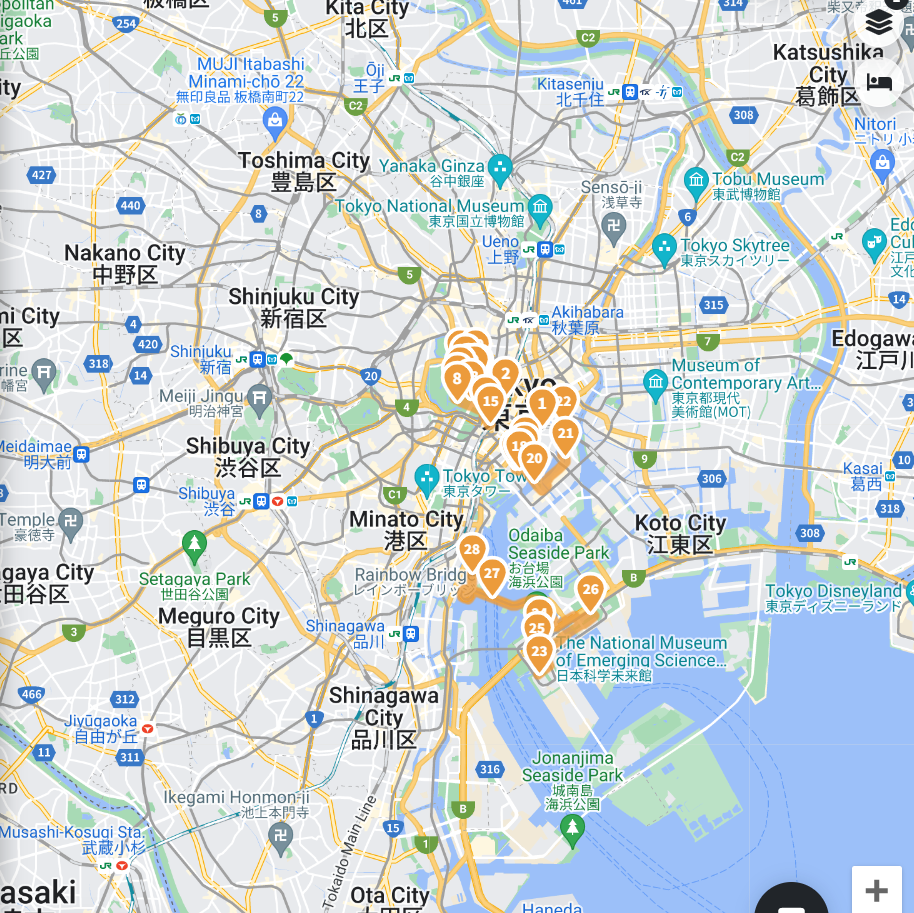
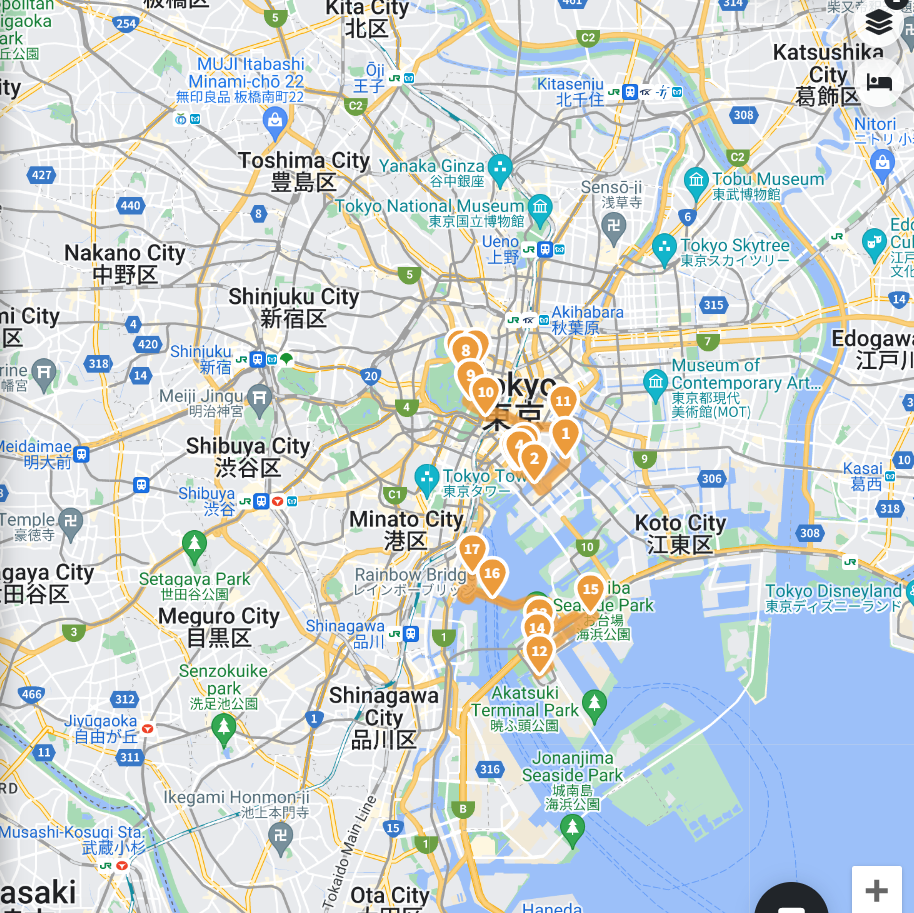
update day3

diff --git a/day03.html b/day03.html
@@ -49,16 +49,16 @@
           <div id="plan">
             <h2 class="content-subhead bg-yellow">What We Had Planned</h2>
             <img class="pure-img-responsive" src=".\images\day03\wanderlog.png" alt="wanderlog itinerary map">
-            <small><em>Note: I had intended to sign us up for a guided tour of the Imperial Palace grounds, but mistook the month that booking opened (1st April not 1st May!), and slots were all gone when I realised a couple of days later. We could arrive early and try to get walk-in tickets, but instead we'll have a leisurely breakfast.</em></small>
+            <small><em>Note: I had intended to sign us up for a guided tour of the Imperial Palace grounds, but mistook the month that booking opened (1st April not 1st May!), and slots were all gone when I realised a couple of days later. We could arrive early and try to get walk-in tickets, but instead we'll have a leisurely breakfast and visit the market.</em></small>
             <h3>Imperial Palace</h3>
             <ul>
-              <li>Walk or metro in the right direction, stopping for a nice breakfast somewhere on the way.</li>
-              <li>Wander the <strong>Imperial Palace</strong> gardens, including the <strong>ruins of Edo castle</strong> - I downloaded an audio guide tour, so we can take headphones with us and learn some history.</li>
+              <li>Walk to <strong>Tsukiji Outer Market</strong>, either via shrines and bridges or directly there depending on what time we get up.</li>
+              <li>Eat omelette, sweets and other snacks for breakfast (the market sells mostly fish though!) and buy tea from <strong>Maruyama's Seaweed</strong>.</li>
+              <li><em><strong>Hongwan-ji</strong> temple by the market.</em></li>
+              <li>Walk or metro to the <strong>Imperial Palace</strong> gardens.</li>
+              <li>Wander the gardens, including the <strong>ruins of Edo castle</strong> - I downloaded an audio guide tour, so we can take headphones with us and learn some history.</li>
               <li>Tea break!</li>
-              <li>Head to <strong>Tsukiji Outer Market</strong> before it closes at 2pm, to buy tea from <strong>Maruyama's Seaweed</strong> and maybe get snacks.</li>
-              <li><em>Visit <strong>Tsukiji Hongwanji</strong> temple.</em></li>
-              <li>Walk back to the apartment via more bridges and a small shrine.</li>
-              <li>Convenience store lunch (if we haven't already eaten), then see how tired we are (expecting jetlag to catch up with us if it hasn't already!).</li>
+              <li>Metro back to the appartment for a convenience store lunch, then see how tired we are (expecting jetlag to catch up with us if it hasn't already!).</li>
               <li>If we still have energy, proceed to part two, otherwise skip it and relax.</li>
             </ul>
 
